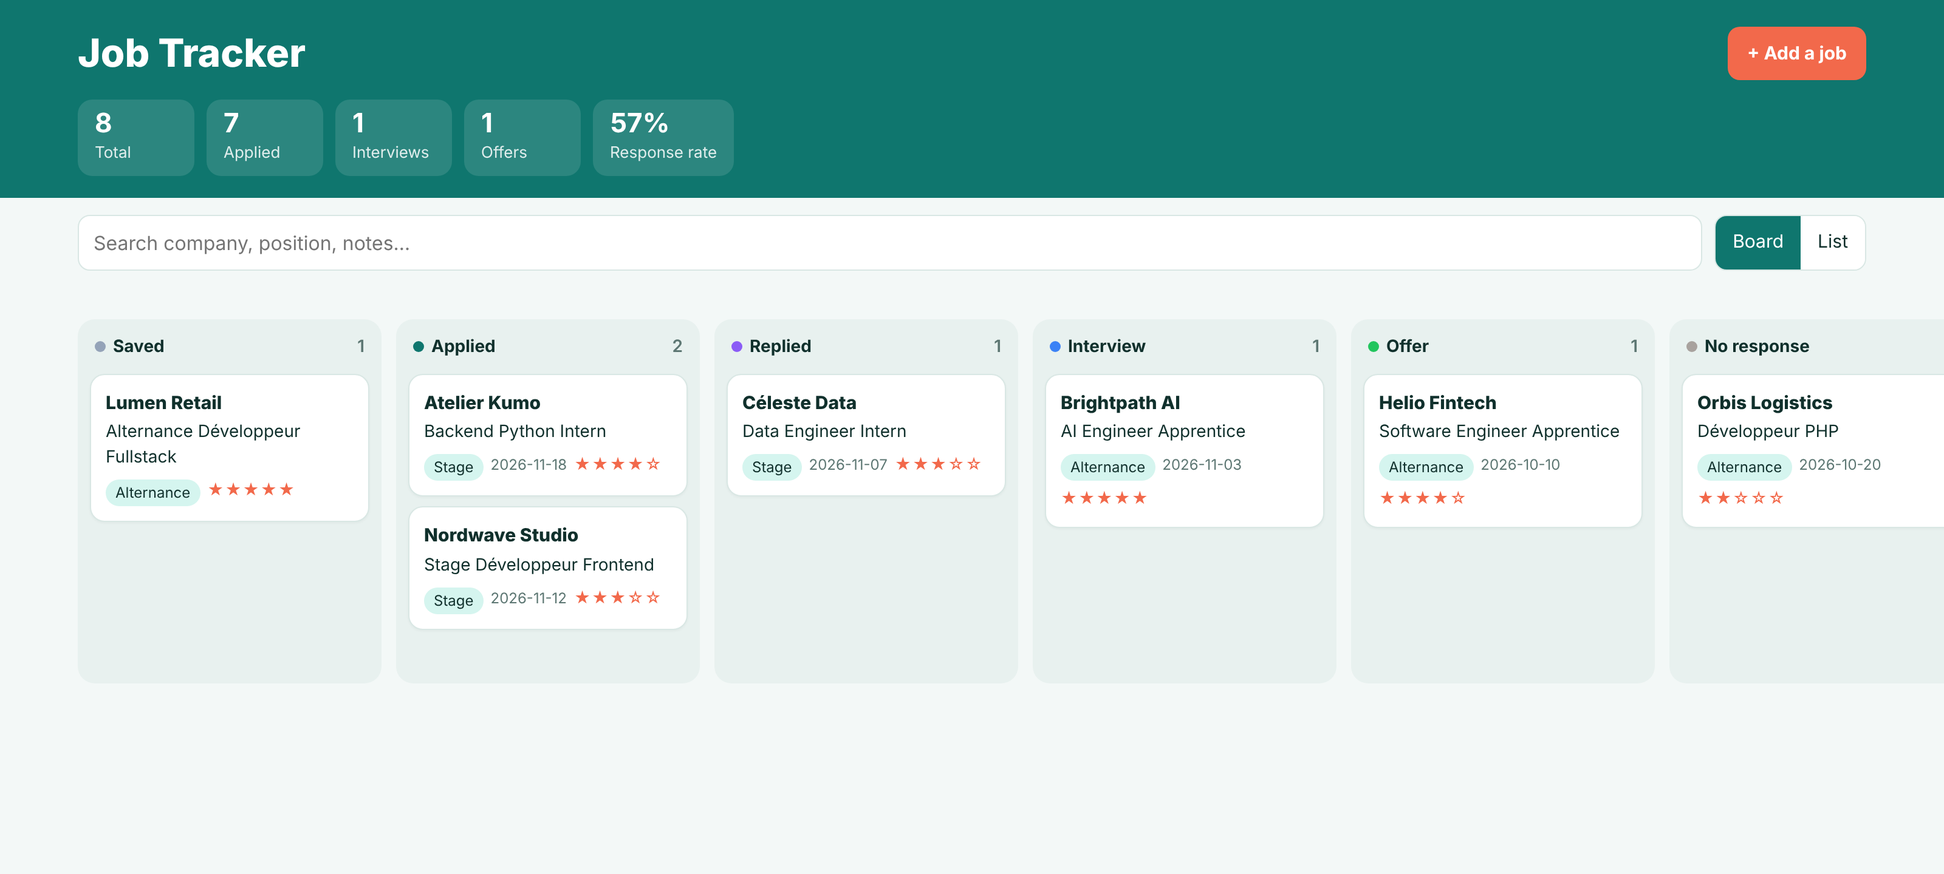
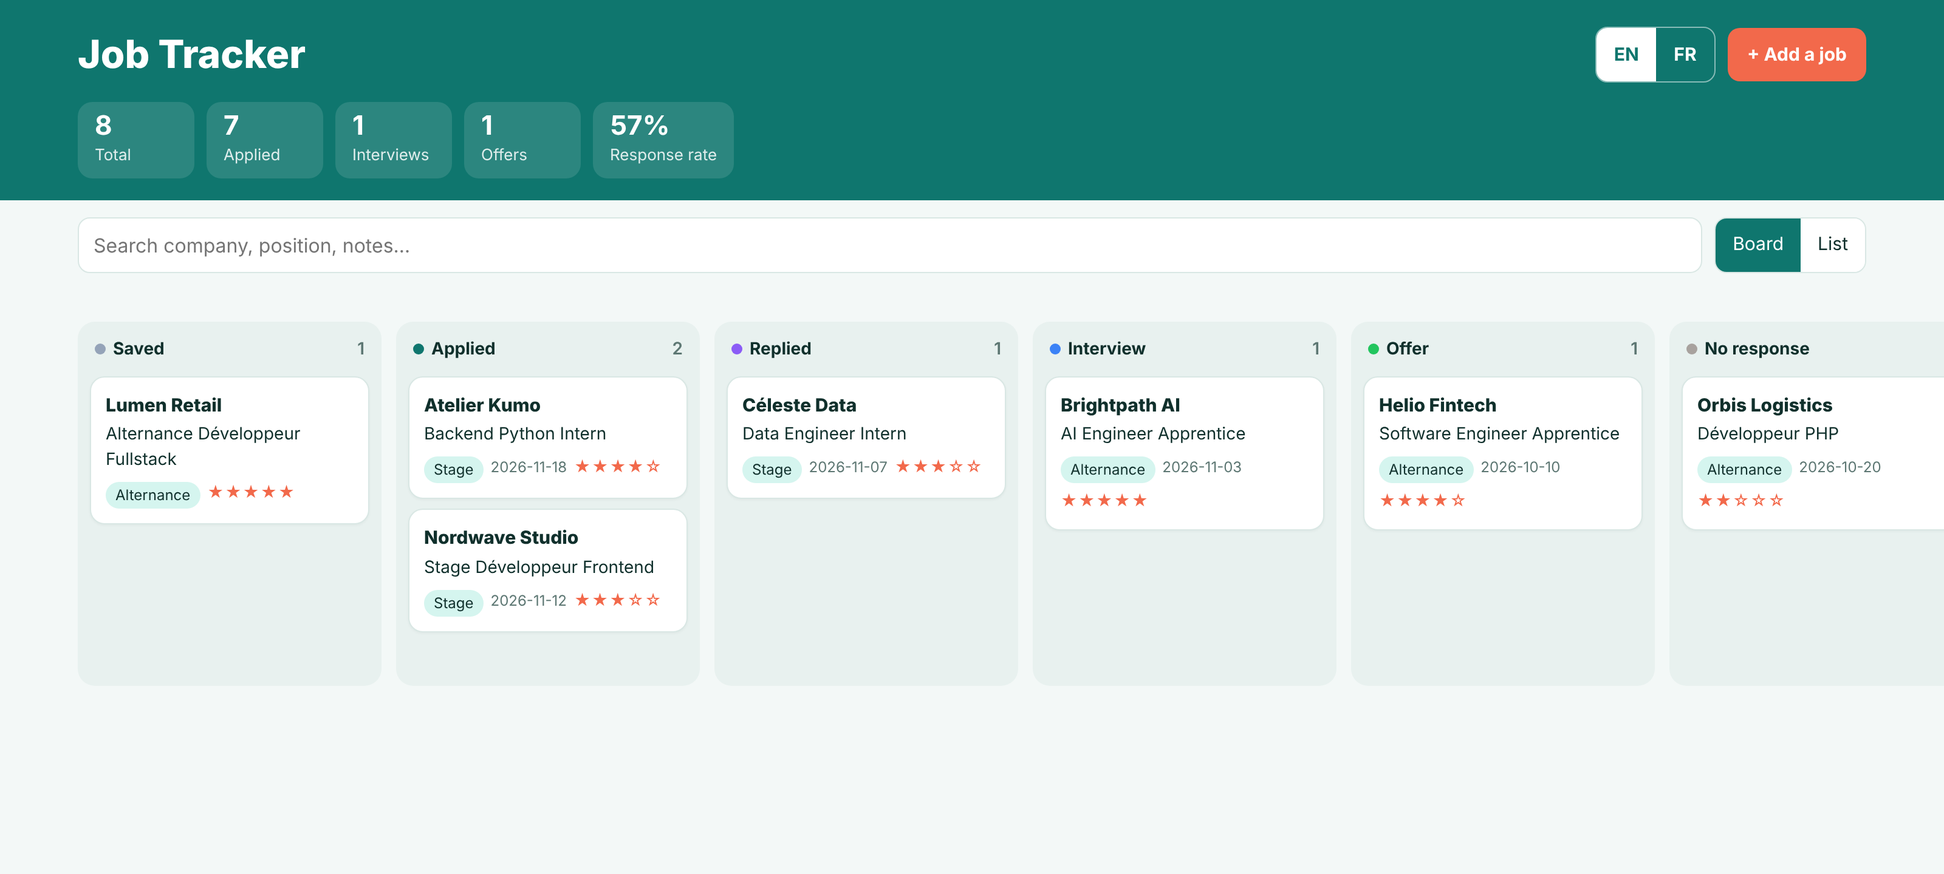
Add English/French language switch and French README
Claude-Session: https://claude.ai/code/session_01JgokNrp6LbkHfxV7r4AH8v

diff --git a/static/index.html b/static/index.html
@@ -36,6 +36,9 @@ h1{margin:0;font-size:clamp(24px,3vw,32px);line-height:1.05;font-weight:800}
 .seg{display:flex;border:1px solid var(--line);border-radius:10px;overflow:hidden}
 .seg button{border:0;background:var(--panel);padding:0 14px;min-height:44px;cursor:pointer}
 .seg button[aria-pressed=true]{background:var(--teal);color:#fff}
+.lang{border-color:rgba(255,255,255,.5)}.lang button{background:transparent;color:#fff;font-weight:700;min-width:48px}
+.lang button[aria-pressed=true]{background:#fff;color:var(--teal)}
+.req::after{content:' *'}
 .note{padding:0 max(4vw,16px);color:var(--mute);font-size:13px;min-height:18px}
 .board{display:grid;grid-auto-flow:column;grid-auto-columns:minmax(250px,1fr);gap:12px;padding:8px max(4vw,16px) 40px;overflow-x:auto}
 .col{background:var(--col);border-radius:14px;padding:10px;min-height:300px;display:flex;flex-direction:column;gap:8px}
@@ -80,67 +83,114 @@ table{font-size:13px}.stack thead{display:none}.stack tr{display:grid;padding-bl
 <header>
   <div class="top">
     <h1>Job Tracker</h1>
-    <button class="btn primary" id="addBtn">+ Add a job</button>
+    <div style="display:flex;gap:10px;align-items:center">
+      <div class="seg lang" role="group" aria-label="Language">
+        <button data-lang="en" aria-pressed="true">EN</button>
+        <button data-lang="fr" aria-pressed="false">FR</button>
+      </div>
+      <button class="btn primary" id="addBtn" data-i18n="add"></button>
+    </div>
   </div>
   <div class="stats" id="stats"></div>
 </header>
 <div class="bar">
-  <input id="q" type="search" placeholder="Search company, position, notes…" aria-label="Search">
+  <input id="q" type="search" data-i18n-ph="search" aria-label="Search">
   <div class="seg" role="group" aria-label="View">
-    <button id="vBoard" aria-pressed="true">Board</button>
-    <button id="vList" aria-pressed="false">List</button>
+    <button id="vBoard" aria-pressed="true" data-i18n="board"></button>
+    <button id="vList" aria-pressed="false" data-i18n="list"></button>
   </div>
 </div>
-<div class="note" id="note">Loading…</div>
+<div class="note" id="note"></div>
 <main id="view"></main>
 
 <div class="shade" id="shade"></div>
 <aside id="drawer" aria-label="Job details">
   <h3 id="dTitle">Add a job</h3>
   <form id="form" class="f">
-    <label>Company *<input name="company" required maxlength="200"></label>
-    <label>Position *<input name="position" required maxlength="200"></label>
-    <label>Status<select name="status" id="statusSel"></select></label>
-    <label>Type<select name="job_type"><option>Alternance</option><option>Stage</option><option>CDI</option><option>CDD</option><option>Freelance</option></select></label>
-    <label>Applied on<input name="applied_date" type="date"></label>
-    <label>Location<input name="location" placeholder="Paris / Remote"></label>
-    <label>Contact email<input name="contact_email" type="email"></label>
-    <label>Salary<input name="salary" placeholder="1200 €/month"></label>
-    <label class="w">Job link<input name="job_url" type="url" placeholder="https://"></label>
-    <label class="w">Excitement<div class="rate" id="rate"></div></label>
-    <label class="w">Notes<textarea name="notes" placeholder="Interview questions, company highlights, next step…"></textarea></label>
+    <label><span data-i18n="company" class="req"></span><input name="company" required maxlength="200"></label>
+    <label><span data-i18n="position" class="req"></span><input name="position" required maxlength="200"></label>
+    <label><span data-i18n="status"></span><select name="status" id="statusSel"></select></label>
+    <label><span data-i18n="type"></span><select name="job_type"><option>Alternance</option><option>Stage</option><option>CDI</option><option>CDD</option><option>Freelance</option></select></label>
+    <label><span data-i18n="applied"></span><input name="applied_date" type="date"></label>
+    <label><span data-i18n="location"></span><input name="location" placeholder="Paris / Remote"></label>
+    <label><span data-i18n="contact"></span><input name="contact_email" type="email"></label>
+    <label><span data-i18n="salary"></span><input name="salary" data-i18n-ph="salaryPh"></label>
+    <label class="w"><span data-i18n="link"></span><input name="job_url" type="url" placeholder="https://"></label>
+    <label class="w"><span data-i18n="excitement"></span><div class="rate" id="rate"></div></label>
+    <label class="w"><span data-i18n="notes"></span><textarea name="notes" data-i18n-ph="notesPh"></textarea></label>
     <div class="w">
-      <div style="font-size:13px;color:var(--mute);margin-bottom:4px">CV used for this application</div>
+      <div style="font-size:13px;color:var(--mute);margin-bottom:4px" data-i18n="cvUsed"></div>
       <div class="cv" id="cvBox"></div>
     </div>
   </form>
   <div class="acts">
-    <button class="btn danger" id="delBtn" type="button">Delete</button>
+    <button class="btn danger" id="delBtn" type="button" data-i18n="delete"></button>
     <div style="display:flex;gap:10px">
-      <button class="btn ghost" id="cancelBtn" type="button">Cancel</button>
-      <button class="btn primary" id="saveBtn" type="button">Save</button>
+      <button class="btn ghost" id="cancelBtn" type="button" data-i18n="cancel"></button>
+      <button class="btn primary" id="saveBtn" type="button" data-i18n="save"></button>
     </div>
   </div>
-  <div class="confirm" id="confirm">Delete this application? This cannot be undone.
+  <div class="confirm" id="confirm"><span data-i18n="confirmDel"></span>
     <div style="display:flex;gap:10px;margin-top:10px">
-      <button class="btn danger" id="yesDel" type="button">Yes, delete</button>
-      <button class="btn ghost" id="noDel" type="button">Keep it</button>
+      <button class="btn danger" id="yesDel" type="button" data-i18n="yesDel"></button>
+      <button class="btn ghost" id="noDel" type="button" data-i18n="noDel"></button>
     </div>
   </div>
 </aside>
 
 <script>
 {
+// UI translations. Keys in data-i18n / data-i18n-ph attributes and in t() calls.
+const I18N = {
+  en: {
+    add: '+ Add a job', search: 'Search company, position, notes…', board: 'Board', list: 'List',
+    loading: 'Loading…', empty: 'No applications yet. Add your first job with the button above.',
+    company: 'Company', position: 'Position', status: 'Status', type: 'Type', applied: 'Applied on',
+    location: 'Location', contact: 'Contact email', salary: 'Salary', salaryPh: '1200 €/month', link: 'Job link',
+    excitement: 'Excitement', notes: 'Notes', notesPh: 'Interview questions, company highlights, next step…',
+    cvUsed: 'CV used for this application', none: 'None', upload: 'Upload PDF / Word', uploading: 'Uploading…',
+    remove: 'Remove', cvAttached: 'CV attached', delete: 'Delete', cancel: 'Cancel', save: 'Save',
+    confirmDel: 'Delete this application? This cannot be undone.', yesDel: 'Yes, delete', noDel: 'Keep it',
+    addTitle: 'Add a job', editTitle: 'Edit job', dropHere: 'Drop a card here',
+    total: 'Total', sentN: 'Applied', interviews: 'Interviews', offers: 'Offers', rate: 'Response rate',
+    errServer: 'Cannot reach the server: ', errSave: 'Could not save: ', errDelete: 'Could not delete: ',
+    errMove: 'Could not move: ', errUpload: 'Upload failed: ',
+    st: {saved: 'Saved', sent: 'Applied', replied: 'Replied', interview: 'Interview', offer: 'Offer', no_response: 'No response', rejected: 'Rejected'}
+  },
+  fr: {
+    add: '+ Ajouter une offre', search: 'Rechercher une entreprise, un poste, une note…', board: 'Tableau', list: 'Liste',
+    loading: 'Chargement…', empty: 'Aucune candidature pour le moment. Ajoutez votre première offre avec le bouton ci-dessus.',
+    company: 'Entreprise', position: 'Poste', status: 'Statut', type: 'Type', applied: 'Date de candidature',
+    location: 'Lieu', contact: 'E-mail du contact', salary: 'Rémunération', salaryPh: '1200 €/mois', link: "Lien de l'offre",
+    excitement: 'Intérêt', notes: 'Notes', notesPh: "Questions d'entretien, points forts de l'entreprise, prochaine étape…",
+    cvUsed: 'CV envoyé pour cette candidature', none: 'Aucun', upload: 'Importer PDF / Word', uploading: 'Import en cours…',
+    remove: 'Retirer', cvAttached: 'CV joint', delete: 'Supprimer', cancel: 'Annuler', save: 'Enregistrer',
+    confirmDel: 'Supprimer cette candidature ? Cette action est irréversible.', yesDel: 'Oui, supprimer', noDel: 'La garder',
+    addTitle: 'Ajouter une offre', editTitle: "Modifier l'offre", dropHere: 'Déposez une carte ici',
+    total: 'Total', sentN: 'Envoyées', interviews: 'Entretiens', offers: 'Offres', rate: 'Taux de réponse',
+    errServer: 'Serveur injoignable : ', errSave: "Impossible d'enregistrer : ", errDelete: 'Impossible de supprimer : ',
+    errMove: 'Impossible de déplacer : ', errUpload: "Échec de l'import : ",
+    st: {saved: 'À postuler', sent: 'Envoyée', replied: 'Réponse reçue', interview: 'Entretien', offer: 'Offre', no_response: 'Sans réponse', rejected: 'Refusée'}
+  }
+};
+
+// Remembered choice first, then the browser language, then English
+let lang = 'en';
+try { lang = localStorage.getItem('lang') || ''; } catch (e) { lang = ''; }
+if (!I18N[lang]) lang = (navigator.language || '').toLowerCase().startsWith('fr') ? 'fr' : 'en';
+const t = key => I18N[lang][key] ?? I18N.en[key] ?? key;
+
 // Board columns, in the same order as db.STATUSES on the server
 const STAGES = [
-  {k: 'saved', n: 'Saved', c: '#94a3b8'},
-  {k: 'sent', n: 'Applied', c: '#0f766e'},
-  {k: 'replied', n: 'Replied', c: '#8b5cf6'},
-  {k: 'interview', n: 'Interview', c: '#3b82f6'},
-  {k: 'offer', n: 'Offer', c: '#22c55e'},
-  {k: 'no_response', n: 'No response', c: '#a8a29e'},
-  {k: 'rejected', n: 'Rejected', c: '#f2694b'}
+  {k: 'saved', c: '#94a3b8'},
+  {k: 'sent', c: '#0f766e'},
+  {k: 'replied', c: '#8b5cf6'},
+  {k: 'interview', c: '#3b82f6'},
+  {k: 'offer', c: '#22c55e'},
+  {k: 'no_response', c: '#a8a29e'},
+  {k: 'rejected', c: '#f2694b'}
 ];
+const stName = k => I18N[lang].st[k] || k;
 const FIELDS = ['company', 'position', 'status', 'job_type', 'applied_date', 'location', 'contact_email', 'salary', 'job_url', 'notes'];
 const $ = id => document.getElementById(id);
 const esc = s => String(s ?? '').replace(/[&<>"']/g, c => ({'&': '&amp;', '<': '&lt;', '>': '&gt;', '"': '&quot;', "'": '&#39;'}[c]));
@@ -148,7 +198,26 @@ const stageOf = k => STAGES.find(s => s.k === k) || STAGES[1];
 
 let jobs = [], view = 'board', editing = null, rating = 3, cv = null, dragId = null;
 
-$('statusSel').innerHTML = STAGES.map(s => `<option value="${s.k}">${s.n}</option>`).join('');
+let lastStats = null;
+
+// Apply the current language to every static label, then redraw dynamic parts
+function applyLang() {
+  document.documentElement.lang = lang;
+  document.querySelectorAll('[data-i18n]').forEach(el => { el.textContent = t(el.dataset.i18n); });
+  document.querySelectorAll('[data-i18n-ph]').forEach(el => { el.placeholder = t(el.dataset.i18nPh); });
+  document.querySelectorAll('[data-lang]').forEach(b => b.setAttribute('aria-pressed', b.dataset.lang === lang));
+  const current = $('statusSel').value;
+  $('statusSel').innerHTML = STAGES.map(s => `<option value="${s.k}">${esc(stName(s.k))}</option>`).join('');
+  if (current) $('statusSel').value = current;
+  if (lastStats) renderStats(lastStats);
+  render();
+}
+document.querySelectorAll('[data-lang]').forEach(b => b.addEventListener('click', () => {
+  lang = b.dataset.lang;
+  try { localStorage.setItem('lang', lang); } catch (e) {}
+  applyLang();
+  if ($('drawer').classList.contains('on')) { $('dTitle').textContent = t(editing ? 'editTitle' : 'addTitle'); drawCv(); }
+}));
 
 // Small fetch wrapper: throws with FastAPI's error message when the request fails
 async function api(path, options = {}) {
@@ -166,17 +235,17 @@ async function load() {
   try {
     const [list, stats] = await Promise.all([api('/api/applications'), api('/api/stats')]);
     jobs = list;
-    renderStats(stats);
-    $('note').textContent = jobs.length ? '' : 'No applications yet. Add your first job with the button above.';
+    lastStats = stats; renderStats(stats);
+    $('note').textContent = jobs.length ? '' : t('empty');
     render();
   } catch (err) {
-    $('note').textContent = 'Cannot reach the server: ' + err.message;
+    $('note').textContent = t('errServer') + err.message;
   }
 }
 
 function renderStats(s) {
-  const items = [['Total', s.total], ['Applied', s.sent], ['Interviews', s.by_status.interview], ['Offers', s.by_status.offer], ['Response rate', s.response_rate + '%']];
-  $('stats').innerHTML = items.map(([n, v]) => `<div class="stat"><b>${esc(v)}</b><span>${n}</span></div>`).join('');
+  const items = [['total', s.total], ['sentN', s.sent], ['interviews', s.by_status.interview], ['offers', s.by_status.offer], ['rate', s.response_rate + '%']];
+  $('stats').innerHTML = items.map(([k, v]) => `<div class="stat"><b>${esc(v)}</b><span>${esc(t(k))}</span></div>`).join('');
 }
 
 function filtered() {
@@ -190,7 +259,7 @@ function cardHTML(j) {
   return `<div class="card" draggable="true" tabindex="0" data-id="${esc(j.id)}">
     <div class="co">${esc(j.company)}</div><div class="po">${esc(j.position)}</div>
     <div class="meta">${j.job_type ? `<span class="tag">${esc(j.job_type)}</span>` : ''}
-    ${j.applied_date ? `<span>${esc(j.applied_date)}</span>` : ''}${j.cv_file_id ? '<span>CV attached</span>' : ''}
+    ${j.applied_date ? `<span>${esc(j.applied_date)}</span>` : ''}${j.cv_file_id ? `<span>${esc(t('cvAttached'))}</span>` : ''}
     ${j.rating ? `<span class="stars">${stars(j.rating)}</span>` : ''}</div></div>`;
 }
 
@@ -199,13 +268,13 @@ function render() {
   if (view === 'board') {
     $('view').innerHTML = `<div class="board">${STAGES.map(s => {
       const items = list.filter(j => j.status === s.k);
-      return `<section class="col" data-stage="${s.k}"><h2><span><span class="dot" style="background:${s.c}"></span>${s.n}</span><span class="cnt">${items.length}</span></h2>
-      ${items.length ? items.map(cardHTML).join('') : '<div class="empty">Drop a card here</div>'}</section>`;
+      return `<section class="col" data-stage="${s.k}"><h2><span><span class="dot" style="background:${s.c}"></span>${esc(stName(s.k))}</span><span class="cnt">${items.length}</span></h2>
+      ${items.length ? items.map(cardHTML).join('') : `<div class="empty">${esc(t('dropHere'))}</div>`}</section>`;
     }).join('')}</div>`;
   } else {
-    $('view').innerHTML = list.length ? `<table class="stack"><thead><tr><th>Company</th><th>Position</th><th>Status</th><th>Type</th><th>Applied on</th><th>Excitement</th></tr></thead><tbody>
+    $('view').innerHTML = list.length ? `<table class="stack"><thead><tr>${['company', 'position', 'status', 'type', 'applied', 'excitement'].map(k => `<th>${esc(t(k))}</th>`).join('')}</tr></thead><tbody>
     ${list.map(j => `<tr data-id="${esc(j.id)}"><td><b>${esc(j.company)}</b></td><td>${esc(j.position)}</td>
-      <td><span class="dot" style="background:${stageOf(j.status).c}"></span>${stageOf(j.status).n}</td>
+      <td><span class="dot" style="background:${stageOf(j.status).c}"></span>${esc(stName(j.status))}</td>
       <td>${esc(j.job_type)}</td><td style="white-space:nowrap">${esc(j.applied_date)}</td><td class="stars">${j.rating ? '★'.repeat(j.rating) : ''}</td></tr>`).join('')}
     </tbody></table>` : '';
   }
@@ -215,7 +284,7 @@ function render() {
 function openDrawer(job) {
   editing = job || null;
   const f = $('form'); f.reset();
-  $('dTitle').textContent = job ? 'Edit job' : 'Add a job';
+  $('dTitle').textContent = t(job ? 'editTitle' : 'addTitle');
   $('delBtn').style.visibility = job ? 'visible' : 'hidden';
   $('confirm').classList.remove('on');
   const d = job || {status: 'saved', job_type: 'Alternance'};
@@ -232,8 +301,8 @@ function drawRate() {
   $('rate').innerHTML = [1, 2, 3, 4, 5].map(i => `<button type="button" data-r="${i}" class="${i <= rating ? 'on' : ''}" aria-label="${i} stars">★</button>`).join('');
 }
 function drawCv() {
-  const link = cv ? `<a href="/api/cvs/${encodeURIComponent(cv.id)}/file" target="_blank" rel="noopener">${esc(cv.name || 'CV')}</a> <button type="button" class="btn ghost" id="cvRm">Remove</button>` : '<span style="color:var(--mute)">None</span>';
-  $('cvBox').innerHTML = link + ' <label class="btn ghost" style="display:inline-flex;align-items:center">Upload PDF / Word<input type="file" id="cvIn" accept=".pdf,.doc,.docx" hidden></label>';
+  const link = cv ? `<a href="/api/cvs/${encodeURIComponent(cv.id)}/file" target="_blank" rel="noopener">${esc(cv.name || 'CV')}</a> <button type="button" class="btn ghost" id="cvRm">${esc(t('remove'))}</button>` : `<span style="color:var(--mute)">${esc(t('none'))}</span>`;
+  $('cvBox').innerHTML = link + ' <label class="btn ghost" style="display:inline-flex;align-items:center">' + esc(t('upload')) + '<input type="file" id="cvIn" accept=".pdf,.doc,.docx" hidden></label>';
 }
 
 $('rate').addEventListener('click', e => { const b = e.target.closest('button'); if (b) { rating = +b.dataset.r; drawRate(); } });
@@ -241,9 +310,9 @@ $('cvBox').addEventListener('click', e => { if (e.target.id === 'cvRm') { cv = n
 $('cvBox').addEventListener('change', async e => {
   if (e.target.id !== 'cvIn' || !e.target.files[0]) return;
   const body = new FormData(); body.append('file', e.target.files[0]);
-  $('cvBox').textContent = 'Uploading…';
+  $('cvBox').textContent = t('uploading');
   try { const r = await api('/api/cvs', {method: 'POST', body}); cv = {id: r.id, name: r.original_name}; }
-  catch (err) { $('note').textContent = 'Upload failed: ' + err.message; }
+  catch (err) { $('note').textContent = t('errUpload') + err.message; }
   drawCv();
 });
 
@@ -258,13 +327,13 @@ $('saveBtn').addEventListener('click', async () => {
     if (editing) await api(`/api/applications/${editing.id}`, sendJSON('PATCH', data));
     else await api('/api/applications', sendJSON('POST', data));
     closeDrawer(); load();
-  } catch (err) { $('note').textContent = 'Could not save: ' + err.message; }
+  } catch (err) { $('note').textContent = t('errSave') + err.message; }
 });
 $('delBtn').addEventListener('click', () => $('confirm').classList.add('on'));
 $('noDel').addEventListener('click', () => $('confirm').classList.remove('on'));
 $('yesDel').addEventListener('click', async () => {
   try { await api(`/api/applications/${editing.id}`, {method: 'DELETE'}); closeDrawer(); load(); }
-  catch (err) { $('note').textContent = 'Could not delete: ' + err.message; }
+  catch (err) { $('note').textContent = t('errDelete') + err.message; }
 });
 $('cancelBtn').addEventListener('click', closeDrawer);
 $('shade').addEventListener('click', closeDrawer);
@@ -293,9 +362,11 @@ $('view').addEventListener('drop', async e => {
   // Moving out of "Saved" means it was just sent: fill today's date if empty
   if (job.status === 'saved' && !job.applied_date) patch.applied_date = new Date().toISOString().slice(0, 10);
   try { await api(`/api/applications/${job.id}`, sendJSON('PATCH', patch)); load(); }
-  catch (err) { $('note').textContent = 'Could not move: ' + err.message; }
+  catch (err) { $('note').textContent = t('errMove') + err.message; }
 });
 
+applyLang();
+$('note').textContent = t('loading');
 load();
 }
 </script>

diff --git a/README.fr.md b/README.fr.md
@@ -1,0 +1,90 @@
+# Job Tracker
+
+[English](README.md) | **Français**
+
+Une petite application web fullstack pour suivre ses candidatures sur un tableau Kanban, de « à postuler » jusqu'à « offre ».
+Je l'ai développée pour organiser ma propre recherche d'alternance en tant qu'étudiante à l'École 42 Paris.
+
+![Vue tableau avec des données de démonstration](docs/screenshot.png)
+
+## Fonctionnalités
+
+- Tableau Kanban avec glisser-déposer entre les étapes (À postuler, Envoyée, Réponse reçue, Entretien, Offre, Sans réponse, Refusée)
+- Vue liste et recherche plein texte
+- Statistiques calculées en SQL : nombre de candidatures par étape et taux de réponse
+- Un CV (PDF, DOC, DOCX) associé à chaque candidature, pour savoir quelle version a été envoyée
+- Niveau d'intérêt, type de contrat, lieu, rémunération, contact et notes pour chaque candidature
+- Migration automatique des bases créées par la première version de l'application
+- Interface en anglais et en français, modifiable en un clic (choix mémorisé, langue du navigateur utilisée par défaut)
+- Mise en page responsive et mode sombre
+
+## Stack technique
+
+| Couche | Choix |
+|--------|-------|
+| Backend | Python, FastAPI, Pydantic pour la validation |
+| Base de données | SQLite en SQL natif (requêtes paramétrées, contraintes CHECK, clés étrangères) |
+| Frontend | HTML, CSS, JavaScript natif (Fetch API, glisser-déposer HTML5), sans framework |
+| i18n | Petit dictionnaire de traductions en JavaScript avec des attributs `data-i18n` |
+| Tests | pytest + TestClient de FastAPI |
+
+## Lancer le projet en local
+
+```bash
+git clone https://github.com/luxuanry/job-tracker.git
+cd job-tracker
+python3 -m venv .venv
+source .venv/bin/activate
+pip install -r requirements.txt
+uvicorn app:app --reload
+```
+
+Ouvrir ensuite http://127.0.0.1:8000. Documentation interactive de l'API : http://127.0.0.1:8000/docs
+
+### Essayer avec des données de démonstration
+
+Toutes les entreprises de la démo sont fictives.
+
+```bash
+JOB_TRACKER_DB=demo.db python seed_demo.py
+JOB_TRACKER_DB=demo.db uvicorn app:app --reload
+```
+
+### Lancer les tests
+
+```bash
+pip install -r requirements-dev.txt
+pytest
+```
+
+## API
+
+| Méthode | Route | Description |
+|---------|-------|-------------|
+| GET | /api/statuses | Valeurs de statut autorisées |
+| GET | /api/stats | Nombre par statut et taux de réponse |
+| GET | /api/applications | Liste (paramètres optionnels `?status=` et `&search=`) |
+| POST | /api/applications | Créer une candidature |
+| PATCH | /api/applications/{id} | Modifier certains champs (utilisé par le glisser-déposer) |
+| DELETE | /api/applications/{id} | Supprimer une candidature |
+| GET | /api/cvs | Lister les CV importés |
+| POST | /api/cvs | Importer un CV (multipart, champ `file`, 10 Mo maximum) |
+| GET | /api/cvs/{id}/file | Ouvrir ou télécharger un CV |
+
+## Structure du projet
+
+```
+app.py            Couche HTTP : routes et validation avec Pydantic
+db.py             Accès aux données uniquement (tout le SQL est ici)
+seed_demo.py      Remplit une base séparée avec des candidatures fictives
+static/index.html Le frontend en une seule page
+tests/            Tests de l'API et de la migration
+```
+
+## Choix de conception
+
+- **Séparation des couches** : `db.py` ne connaît pas HTTP, `app.py` ne connaît pas SQL.
+- **Validation à deux niveaux** : Pydantic refuse les entrées invalides avec une erreur 422 avant qu'elles n'atteignent la base, et les contraintes CHECK de SQLite protègent les données elles-mêmes.
+- **Import de fichiers sécurisé** : les CV sont enregistrés sous un nom aléatoire, avec une liste d'extensions autorisées et une taille maximale ; le nom d'origine sert uniquement à l'affichage.
+- **i18n légère** : les libellés statiques portent une clé `data-i18n` et les textes dynamiques passent par une fonction `t()`, donc ajouter une langue revient à ajouter un dictionnaire.
+- **Confidentialité** : la vraie base de données et les CV importés sont listés dans `.gitignore` et ne sont jamais publiés.
